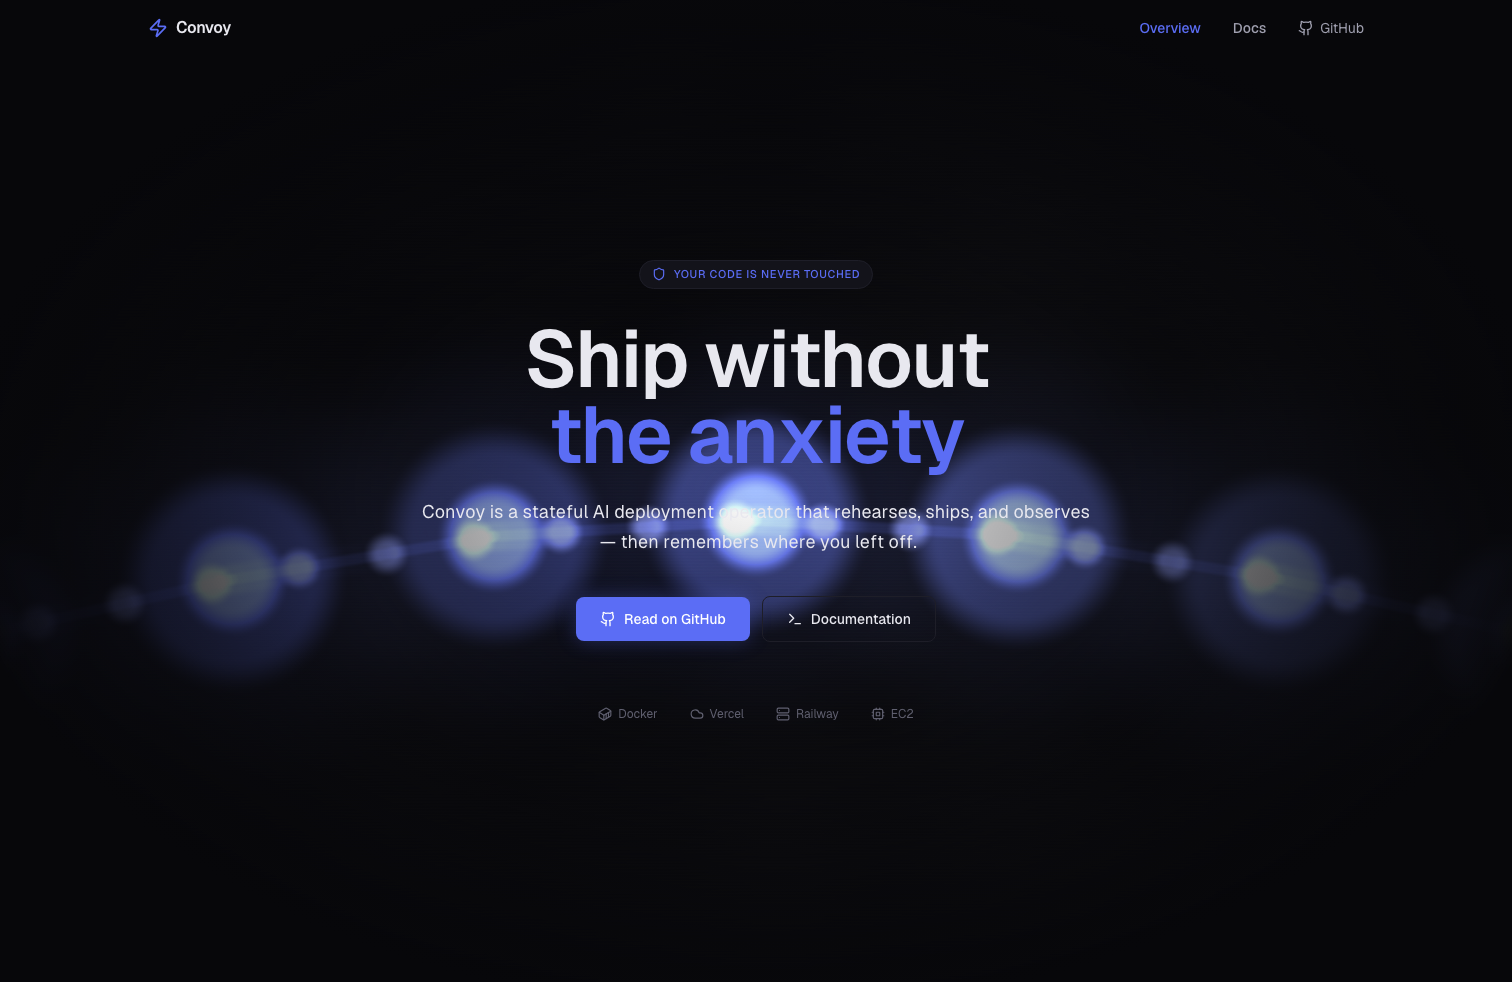
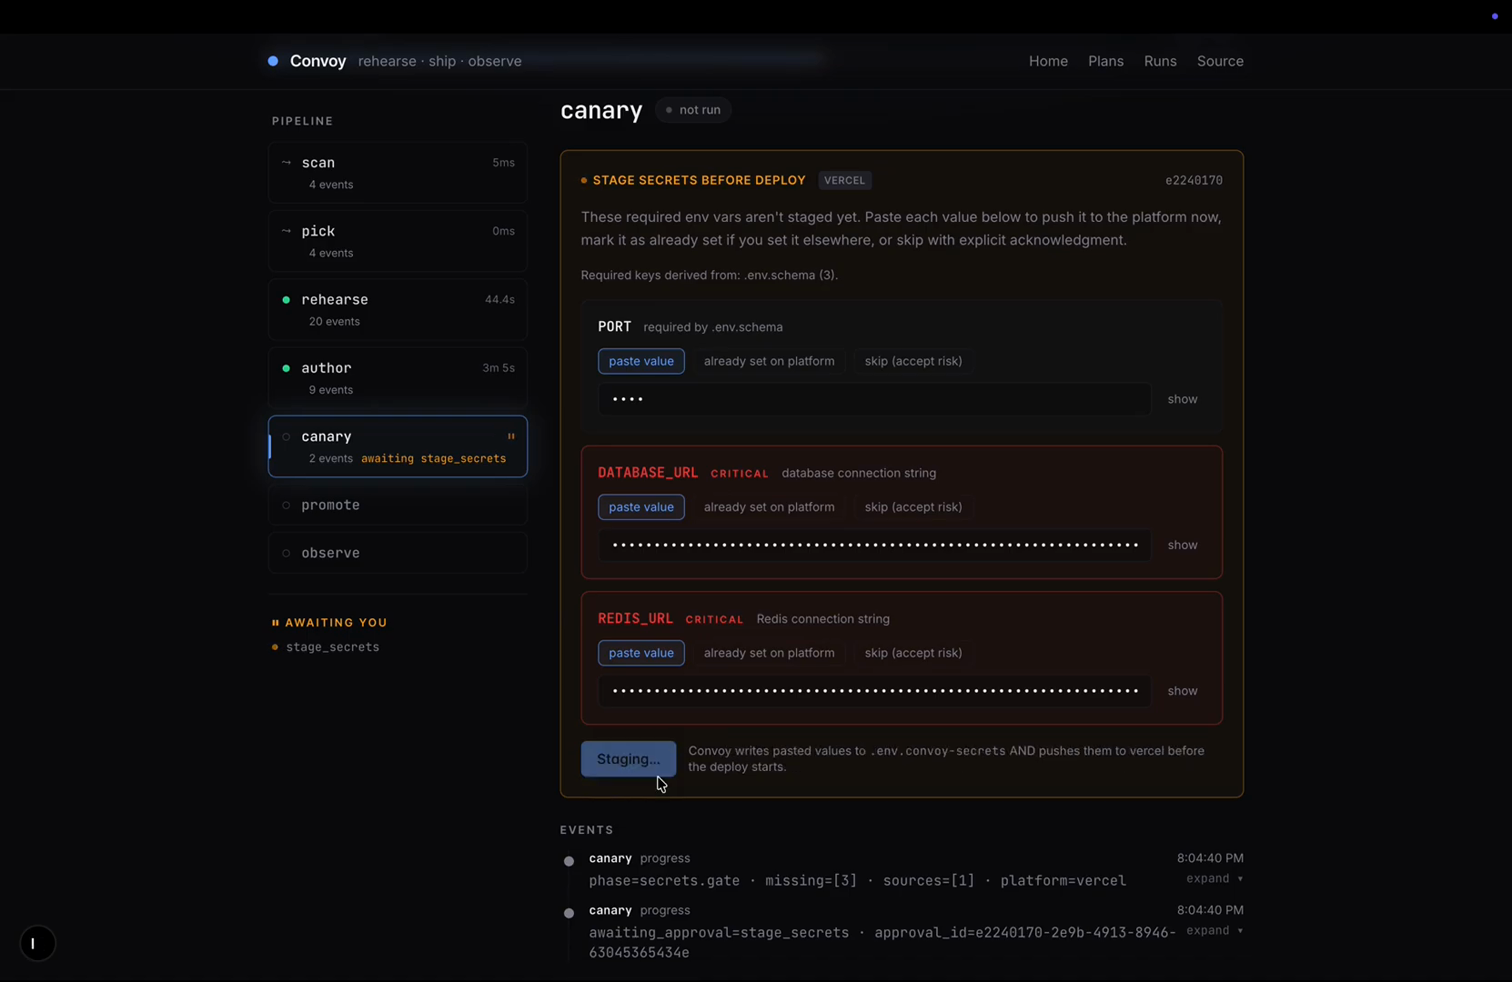
Strengthen product media and story

diff --git a/src/sr/Home.tsx b/src/sr/Home.tsx
@@ -211,11 +211,11 @@ function Hero() {
         <div
           data-sr-image
           className="sr-card"
-          style={{ marginTop: 56, aspectRatio: '16 / 7', boxShadow: 'var(--shadow-lg)', overflow: 'hidden' }}
+          style={{ marginTop: 56, aspectRatio: '16 / 8.4', boxShadow: 'var(--shadow-lg)', overflow: 'hidden' }}
         >
           <ImageSlot
-            label="Ground Control — cockpit view"
-            media={PRODUCT_MEDIA.groundControl}
+            label="Ground Control — dashboard overview"
+            media={PRODUCT_MEDIA.groundControlDashboard}
             mediaFit="contain"
             background="#111417"
           />
@@ -232,7 +232,7 @@ function Hero() {
 // changing hands.
 const FLIP_STAGES = [
   { tag: 'your idea', title: 'Building', sub: 'Forge — CLI + your agent' },
-  { tag: 'your build', title: 'Shipping', sub: 'Convoy — deploy to production' },
+  { tag: 'your build', title: 'Shipping', sub: 'Convoy — rehearse, canary, observe' },
   { tag: 'in production', title: 'Running', sub: 'Ground Control — built for VPS' },
 ];
 
@@ -297,7 +297,7 @@ function FlipBeat() {
         </div>
         <div className="sr-fstation sr-fs1">
           <div className="sr-display" style={stationName}>Convoy</div>
-          <div style={stationSub}>ships it</div>
+          <div style={stationSub}>rolls it out</div>
         </div>
         <div className="sr-fstation sr-fs2">
           <div className="sr-display" style={stationName}>Ground Control</div>
@@ -372,12 +372,12 @@ const LIFECYCLE: LifeRow[] = [
   {
     num: '02',
     name: 'Convoy',
-    tagline: 'Point it at your code. It ships.',
-    body: 'Convoy reads your actual codebase — stack, dependencies, config — picks the deployment path that fits, and carries the rollout all the way to production.',
+    tagline: 'Rehearse it. Gate it. Roll it out.',
+    body: 'Convoy turns a repo into a controlled deployment run: it scans source, plans the route, rehearses, gates risky steps, promotes canaries, and observes the live service.',
     features: [
-      'Repo-aware: detects the stack and the right target',
-      'From codebase to live deploy in one pass',
-      'Handles routing, domains, and rollout',
+      'Repo-aware planning from source, config, and environment',
+      'Human-approved gates for secrets, PRs, and risky deploy steps',
+      'Canary, promote, and observe loops with run memory',
     ],
     linkLabel: 'View Convoy',
     href: CONVOY_URL,
@@ -388,17 +388,17 @@ const LIFECYCLE: LifeRow[] = [
   {
     num: '03',
     name: 'Ground Control',
-    tagline: 'Eyes on production, always.',
-    body: 'The operations cockpit. Real logs, metrics and topology in one place, so your agent can reason about a live system — and ship the next change with confidence.',
+    tagline: 'Operate the VPS, not just watch it.',
+    body: 'Ground Control is the command center after deploy: dashboard signals, services, terminal, DNS, alerts, and AI assistance in one VPS-aware surface.',
     features: [
-      'Live logs, metrics and service topology',
-      'Multi-target deploys from one cockpit',
-      'Agent-readable — built to be operated, not just watched',
+      'Dashboard signals for health, memory, disk, and containers',
+      'Service and container controls with logs and restart actions',
+      'Terminal, DNS, alerts, and AI commands from one cockpit',
     ],
     linkLabel: 'Open Ground Control',
     href: GC_URL,
     slotLabel: 'Ground Control — dashboard',
-    media: PRODUCT_MEDIA.groundControl,
+    media: PRODUCT_MEDIA.groundControlServices,
     mediaFit: 'contain',
   },
 ];
@@ -447,7 +447,7 @@ function Lifecycle() {
             One agent owns the whole line.
           </h2>
           <p data-sr-reveal style={{ marginTop: 20, fontSize: 'var(--text-lg)', lineHeight: 1.7, color: 'var(--sr-text-55)', fontWeight: 500, maxWidth: '56ch' }}>
-            From a fuzzy brief to a running system. Forge builds it, Convoy ships it, Ground Control keeps it alive — one continuous handoff, no glue in between.
+            From a fuzzy brief to a running system. Forge builds it, Convoy rehearses and rolls it out, Ground Control operates it — one continuous handoff, no glue in between.
           </p>
         </div>
 
@@ -552,7 +552,7 @@ function AgentsPipeline() {
               <circle data-sr-path cx="680" cy="200" r="27" fill="#16150F" stroke="rgba(245,244,240,0.55)" strokeWidth="2" />
               <path data-sr-path d="M 668 200 L 690 200 M 683 192 L 691 200 L 683 208" fill="none" stroke="var(--sr-coral-bright)" strokeWidth="2.2" strokeLinecap="round" strokeLinejoin="round" />
               <text x="680" y="266" textAnchor="middle" className="sr-display" style={{ fontSize: '22px', fontWeight: 700, fill: '#F5F4F0' }}>Convoy</text>
-              <text x="680" y="288" textAnchor="middle" style={{ fontSize: '13px', fontWeight: 600, fill: 'rgba(245,244,240,0.5)' }}>ships it</text>
+              <text x="680" y="288" textAnchor="middle" style={{ fontSize: '13px', fontWeight: 600, fill: 'rgba(245,244,240,0.5)' }}>rolls it out</text>
             </g>
             <g>
               <circle data-sr-path cx="1000" cy="110" r="27" fill="#16150F" stroke="var(--sr-coral)" strokeWidth="2.5" />
@@ -578,7 +578,7 @@ function Pricing() {
       <div className="sr-container">
         <div style={{ maxWidth: 720, marginBottom: 'var(--space-6)' }}>
           <h2 className="sr-display" data-sr-text style={{ fontSize: 'var(--text-xl)', fontWeight: 800, letterSpacing: '-0.035em', lineHeight: 1.04 }}>
-            Start free. Pay when you ship.
+            Start free. Pay when you roll out.
           </h2>
           <p data-sr-reveal style={{ marginTop: 20, fontSize: 'var(--text-lg)', lineHeight: 1.7, color: 'var(--sr-text-55)', fontWeight: 500, maxWidth: '54ch' }}>
             Forge is open and free while in beta. Convoy and Ground Control scale with what you run in production.
@@ -606,7 +606,7 @@ function Pricing() {
           <div data-sr-reveal className="sr-card" style={{ background: '#16150F', color: '#F5F4F0', padding: 32, display: 'flex', flexDirection: 'column', boxShadow: 'var(--shadow-lg)', position: 'relative', transform: 'translateY(-8px)' }}>
             <div style={{ position: 'absolute', top: 20, right: 24, fontSize: '12.5px', fontWeight: 700, color: 'var(--sr-coral-bright)' }}>Most teams</div>
             <h3 className="sr-display" style={{ fontSize: 24, fontWeight: 800, letterSpacing: '-0.02em' }}>Convoy</h3>
-            <p style={{ marginTop: 6, fontSize: '14.5px', fontWeight: 600, color: 'rgba(245,244,240,0.55)' }}>Ship to production</p>
+            <p style={{ marginTop: 6, fontSize: '14.5px', fontWeight: 600, color: 'rgba(245,244,240,0.55)' }}>Rehearse and roll out production</p>
             <div style={{ marginTop: 22, display: 'flex', alignItems: 'baseline', gap: 4 }}>
               <span className="sr-display" style={{ fontSize: 48, fontWeight: 800, letterSpacing: '-0.03em' }}>$29</span>
               <span style={{ fontSize: 15, fontWeight: 600, color: 'rgba(245,244,240,0.5)' }}>/mo</span>
@@ -615,12 +615,12 @@ function Pricing() {
             <div style={{ height: 1, background: 'rgba(245,244,240,0.14)', margin: '26px 0' }} />
             <ul style={{ display: 'flex', flexDirection: 'column', gap: 13, flex: 1 }}>
               <FeatureItem color="var(--sr-coral-bright)" textColor="rgba(245,244,240,0.78)">Everything in Forge</FeatureItem>
-              <FeatureItem color="var(--sr-coral-bright)" textColor="rgba(245,244,240,0.78)">Repo-aware deploys, any stack</FeatureItem>
-              <FeatureItem color="var(--sr-coral-bright)" textColor="rgba(245,244,240,0.78)">Custom domains & rollout</FeatureItem>
+              <FeatureItem color="var(--sr-coral-bright)" textColor="rgba(245,244,240,0.78)">Repo-aware rehearsal plans</FeatureItem>
+              <FeatureItem color="var(--sr-coral-bright)" textColor="rgba(245,244,240,0.78)">Secrets, canaries, promote gates</FeatureItem>
               <FeatureItem color="var(--sr-coral-bright)" textColor="rgba(245,244,240,0.78)">Ground Control included</FeatureItem>
             </ul>
             <a href={GC_URL} {...ext} data-sr-magnetic data-sr-strength="0.3" className="sr-btn sr-btn-primary" style={{ marginTop: 26, width: '100%', justifyContent: 'center', fontWeight: 700 }}>
-              <span data-sr-magnetic-inner>Start shipping →</span>
+              <span data-sr-magnetic-inner>Start a rollout →</span>
             </a>
           </div>
 
@@ -673,7 +673,7 @@ function Docs() {
             <div data-sr-reveal style={{ marginTop: 30, display: 'flex', flexDirection: 'column', gap: 18 }}>
               {step('01', 'Install the skill', 'Add Forge to Claude, Cursor, or any MCP-aware agent.')}
               {step('02', 'Describe the product', 'Plain language in. A concrete build plan out.')}
-              {step('03', 'Ship with Convoy', 'Point it at the repo; watch it go live in Ground Control.')}
+              {step('03', 'Roll out with Convoy', 'Point it at the repo; rehearse, gate, promote, and observe the rollout.')}
             </div>
             <a href={FORGE_URL} {...ext} style={{ ...textLink, marginTop: 30 }}>
               Read the docs <span style={{ color: 'var(--sr-coral)' }}>↗</span>
@@ -721,18 +721,18 @@ function WhatsNew() {
         <div className="sr-bento" style={{ display: 'grid', gridTemplateColumns: 'repeat(6, 1fr)', gridAutoRows: '200px', gap: 18 }}>
           {/* Large image card */}
           <div data-sr-reveal className="sr-card" style={{ gridColumn: 'span 4', gridRow: 'span 2', overflow: 'hidden', position: 'relative', boxShadow: 'var(--shadow-md)' }}>
-            <ImageSlot absolute label="Ground Control — hero" media={PRODUCT_MEDIA.groundControl} mediaFit="cover" background="#111417" />
+            <ImageSlot absolute label="Ground Control — terminal" media={PRODUCT_MEDIA.groundControlTerminal} mediaFit="cover" background="#111417" />
             <div style={{ position: 'absolute', inset: 0, background: 'linear-gradient(180deg, transparent 35%, rgba(22,21,15,0.85))', pointerEvents: 'none' }} />
             <div style={{ position: 'absolute', left: 0, bottom: 0, padding: 30, pointerEvents: 'none' }}>
               <p style={{ fontSize: 13, fontWeight: 700, color: 'var(--sr-coral-bright)' }}>Product</p>
-              <h3 className="sr-display" style={{ marginTop: 8, fontSize: 30, fontWeight: 800, letterSpacing: '-0.02em', color: '#F5F4F0', maxWidth: '18ch' }}>Ground Control is live</h3>
-              <p style={{ marginTop: 8, fontSize: 15, fontWeight: 500, color: 'rgba(245,244,240,0.7)', maxWidth: '40ch' }}>Logs, metrics and topology in one cockpit your agent can actually operate.</p>
+              <h3 className="sr-display" style={{ marginTop: 8, fontSize: 30, fontWeight: 800, letterSpacing: '-0.02em', color: '#F5F4F0', maxWidth: '18ch' }}>Ground Control operates the VPS</h3>
+              <p style={{ marginTop: 8, fontSize: 15, fontWeight: 500, color: 'rgba(245,244,240,0.7)', maxWidth: '40ch' }}>Dashboard, services, terminal, alerts, and AI commands in one cockpit.</p>
             </div>
           </div>
           {/* Coral text card */}
           <div data-sr-reveal className="sr-card" style={{ gridColumn: 'span 2', gridRow: 'span 1', background: 'var(--grad-coral)', padding: 26, display: 'flex', flexDirection: 'column', justifyContent: 'space-between', boxShadow: 'var(--shadow-md)' }}>
             <p style={{ fontSize: 13, fontWeight: 700, color: 'rgba(255,255,255,0.8)' }}>Release</p>
-            <h3 className="sr-display" style={{ fontSize: 23, fontWeight: 800, letterSpacing: '-0.02em', color: '#fff', lineHeight: 1.1 }}>Convoy now reads any stack</h3>
+            <h3 className="sr-display" style={{ fontSize: 23, fontWeight: 800, letterSpacing: '-0.02em', color: '#fff', lineHeight: 1.1 }}>Convoy now gates canary rollouts</h3>
           </div>
           {/* Paper text card */}
           <div data-sr-reveal className="sr-card" style={{ gridColumn: 'span 2', gridRow: 'span 1', background: 'var(--grad-paper)', border: '1px solid var(--sr-stone)', padding: 26, display: 'flex', flexDirection: 'column', justifyContent: 'space-between', boxShadow: 'var(--shadow-sm)' }}>
@@ -744,7 +744,7 @@ function WhatsNew() {
             <ImageSlot absolute label="Convoy — deploy" media={PRODUCT_MEDIA.convoy} mediaFit="cover" background="#111417" />
             <div style={{ position: 'absolute', inset: 0, background: 'linear-gradient(180deg, transparent 40%, rgba(22,21,15,0.8))', pointerEvents: 'none' }} />
             <div style={{ position: 'absolute', left: 0, bottom: 0, padding: 24, pointerEvents: 'none' }}>
-              <h3 className="sr-display" style={{ fontSize: 22, fontWeight: 800, letterSpacing: '-0.02em', color: '#F5F4F0' }}>38-second deploys</h3>
+              <h3 className="sr-display" style={{ fontSize: 22, fontWeight: 800, letterSpacing: '-0.02em', color: '#F5F4F0' }}>Secrets, canaries, promote</h3>
             </div>
           </div>
           {/* Dark text card */}

diff --git a/src/sr/ProductsPage.tsx b/src/sr/ProductsPage.tsx
@@ -125,31 +125,31 @@ export default function ProductsPage() {
             </>
           }
         >
-          <p style={kicker}>02 · Convoy · ships it</p>
+          <p style={kicker}>02 · Convoy · rolls it out</p>
           <h2 className="section-heading sr-display" style={heading}>
-            Point it at your code.
+            Rehearse.
             <br />
-            It ships.
+            Canary. Observe.
           </h2>
-          <p style={para}>Convoy reads your stack, picks the right deployment path, and carries the rollout all the way to production.</p>
+          <p style={para}>Convoy scans the repo, plans the route, rehearses the change, gates secrets and PRs, promotes canaries, and observes the live service.</p>
         </Section>
 
         {/* Ground Control */}
         <Section
           bg={
             <>
-              <ImageSlot absolute label="Ground Control — dashboard" media={PRODUCT_MEDIA.groundControl} mediaFit="cover" background="#111417" />
+              <ImageSlot absolute label="Ground Control — dashboard" media={PRODUCT_MEDIA.groundControlDashboard} mediaFit="cover" background="#111417" />
               <div style={scrim} />
             </>
           }
         >
           <p style={kicker}>03 · Ground Control · runs it</p>
           <h2 className="section-heading sr-display" style={heading}>
-            Eyes on production,
+            Operate every VPS
             <br />
-            always.
+            surface.
           </h2>
-          <p style={para}>The operations cockpit — real logs, metrics and topology your agent can reason about and operate.</p>
+          <p style={para}>Dashboard health, services, terminal, alerts, DNS, and AI assistance your agent can reason about and operate.</p>
           <a href={GC_URL} target="_blank" rel="noopener noreferrer" className="sr-btn sr-btn-primary" style={{ marginTop: 30, fontWeight: 700 }}>
             Open Ground Control ↗
           </a>

diff --git a/src/sr/media.ts b/src/sr/media.ts
@@ -13,14 +13,20 @@ export const PRODUCT_MEDIA = {
   },
   convoy: {
     poster: '/images/products/convoy-surface.png',
-    webm: '/images/products/convoy-surface.webm',
-    mp4: '/images/products/convoy-surface.mp4',
-    gif: '/images/products/convoy-surface.gif',
   },
   groundControl: {
     poster: '/images/products/groundcontrol-copilot.png',
     webm: '/images/products/groundcontrol-copilot.webm',
     mp4: '/images/products/groundcontrol-copilot.mp4',
     gif: '/images/products/groundcontrol-copilot.gif',
+  },
+  groundControlDashboard: {
+    poster: '/images/products/groundcontrol-dashboard.png',
+  },
+  groundControlServices: {
+    poster: '/images/products/groundcontrol-services.png',
+  },
+  groundControlTerminal: {
+    poster: '/images/products/groundcontrol-terminal.png',
   },
 } satisfies Record<string, SlotMedia>;
